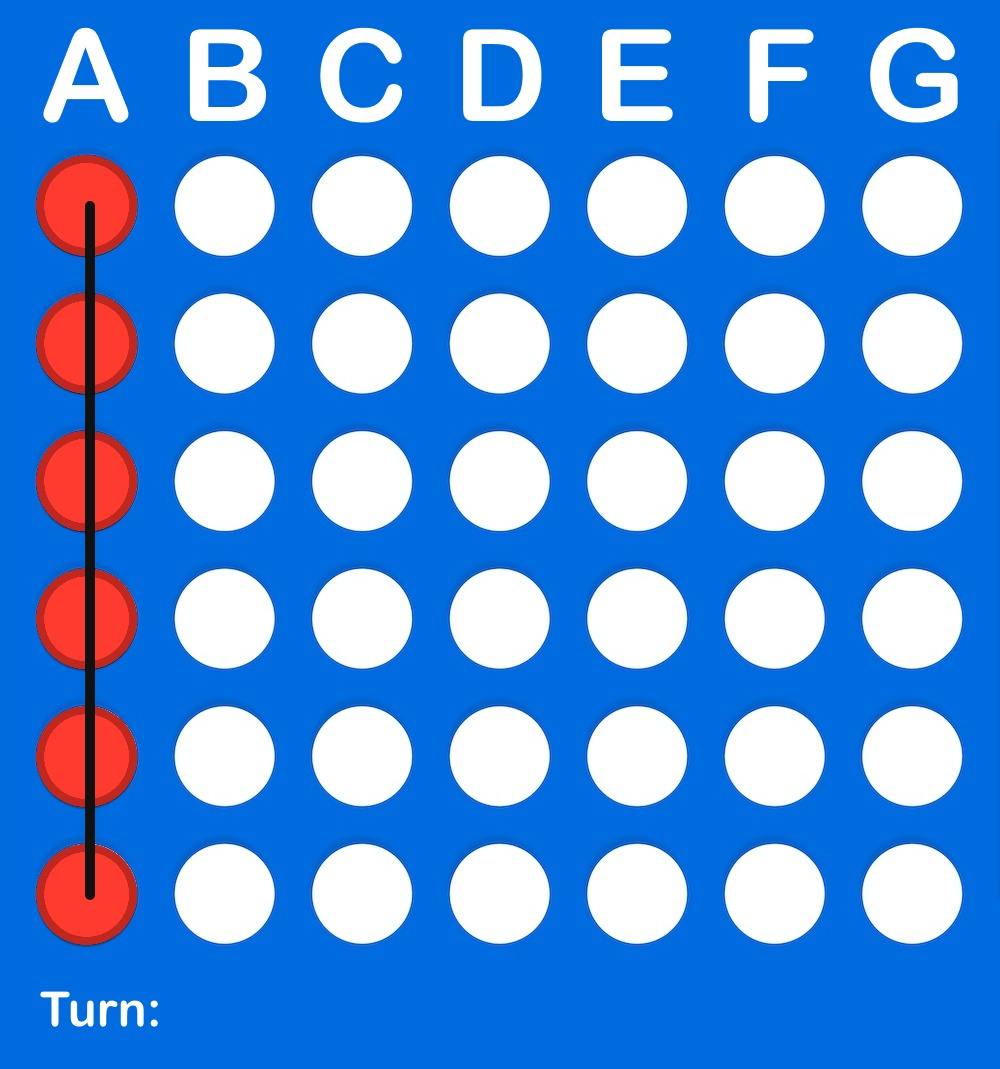
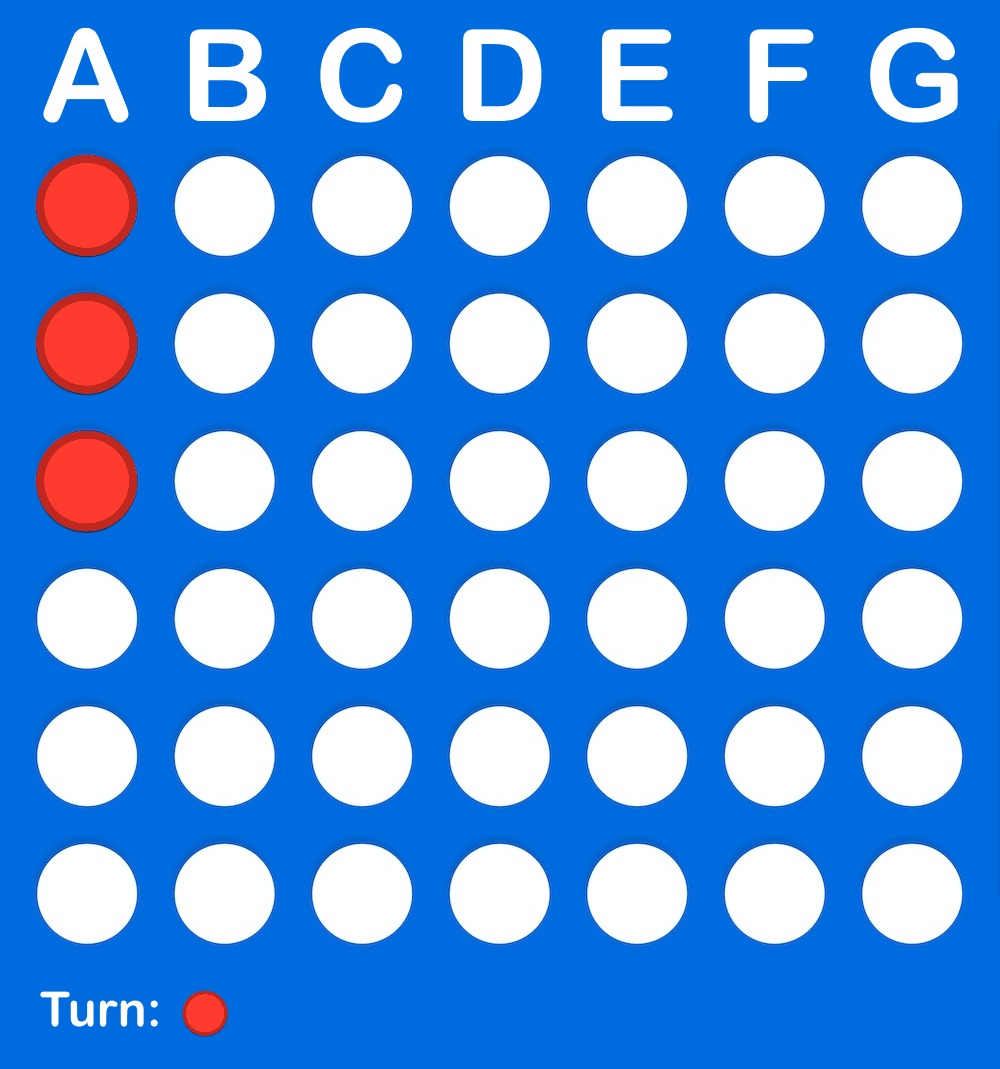
fixes

Changed region(s): [[0.031, 0.1852, 0.155, 0.8952], [0.186, 0.9261, 0.248, 0.9878]]

diff --git a/interactions/commands/connect4/connect4.ts b/interactions/commands/connect4/connect4.ts
@@ -1,0 +1,80 @@
+import type { Command } from "!/common/types";
+import { type Interaction, SlashCommandBuilder } from "discord.js";
+import { z } from "zod";
+import { connect4start } from "./connect4start";
+
+export const connect4 = {
+  data: new SlashCommandBuilder()
+    .setName("connect4")
+    .setDescription("Connect 4 mini game")
+    .setDMPermission(false)
+    .addSubcommand((subCommand) =>
+      subCommand
+        .setName("challenge")
+        .setDescription("Challenge a person")
+        .addUserOption((option) =>
+          option
+            .setName("user")
+            .setDescription("The user whose clan you want to see")
+            .setRequired(true),
+        )
+        .addStringOption((option) =>
+          option
+            .setName("your color")
+            .setDescription("The color YOU want to play as")
+            .setChoices(
+              { name: "red", value: "red" },
+              { name: "yellow", value: "yellow" },
+            ),
+        )
+        .addStringOption((option) =>
+          option
+            .setName("time")
+            .setDescription("The amount of time each player has to make a move")
+            .setChoices(
+              { name: "5 seconds", value: "5" },
+              { name: "30 seconds", value: "30" },
+              { name: "1 minute", value: "60" },
+              { name: "5 minutes", value: (60 * 5).toString() },
+              { name: "10 minutes", value: (60 * 10).toString() },
+              { name: "30 minutes", value: (60 * 30).toString() },
+            ),
+        ),
+    )
+    .addSubcommand((subCommand) =>
+      subCommand.setName("end").setDescription("End your current game"),
+    ),
+  async execute(interaction: Interaction) {
+    if (!interaction.isRepliable() || !interaction.isChatInputCommand()) {
+      return;
+    }
+
+    const guildId = interaction.guildId;
+
+    if (!guildId) {
+      return await interaction.reply("Clans are only available in servers.");
+    }
+
+    const subcommand = interaction.options.getSubcommand();
+
+    switch (subcommand) {
+      case "start":
+        return await interaction.reply(
+          await connect4start({
+            guildId,
+            channelId: interaction.channelId,
+            authorId: interaction.user.id,
+            mentionedId: z
+              .string()
+              .parse(interaction.options.getUser("user")?.id),
+          }),
+        );
+
+      default:
+        return await interaction.reply({
+          ephemeral: true,
+          content: "Unknown sub command",
+        });
+    }
+  },
+} satisfies Command;

diff --git a/interactions/commands/connect4/connect4start.ts b/interactions/commands/connect4/connect4start.ts
@@ -1,0 +1,54 @@
+import { prisma } from "!/prisma";
+import { sprintf } from "sprintf-js";
+
+type Options = {
+  guildId: string;
+  channelId: string;
+  authorId: string;
+  mentionedId: string;
+};
+
+export async function connect4start({
+  guildId,
+  channelId,
+  authorId,
+  mentionedId,
+}: Options) {
+  const authorCurrentGame = await prisma.connect4Game.findFirst({
+    where: {
+      guildId,
+      challenger: authorId,
+    },
+  });
+
+  if (authorCurrentGame) {
+    return {
+      ephemeral: true,
+      content: sprintf(
+        "You're already in a game with <@%s> in <#%s>. You can forfeit with `/connect4 end`",
+        authorCurrentGame.opponent,
+        authorCurrentGame.channelId,
+      ),
+    };
+  }
+
+  const mentionedCurrentGame = await prisma.connect4Game.findFirst({
+    where: {
+      guildId,
+      challenger: mentionedId,
+    },
+  });
+
+  if (mentionedCurrentGame) {
+    return {
+      ephemeral: true,
+      content: sprintf(
+        "<@%s> is already in a game with someone else in <#%s>",
+        mentionedId,
+        mentionedCurrentGame.channelId,
+      ),
+    };
+  }
+
+  return "";
+}

diff --git a/common/logic/c4/renderBoard.ts b/common/logic/c4/renderBoard.ts
@@ -16,15 +16,6 @@ export async function renderBoard(board: Board): Promise<void> {
 
   ctx.drawImage(boardImage, 0, 0, boardImage.width, boardImage.height);
 
-  switch (board.gameState) {
-    case GameState.RedTurn:
-      ctx.drawImage(redImage, 200, 200, 1000, 1000);
-      break;
-    case GameState.YellowTurn:
-      ctx.drawImage(yellowImage, 100, 100, 1000, 1000);
-      break;
-  }
-
   const lines: Slot[] = board.winningSlots?.length
     ? [board.winningSlots.at(0), board.winningSlots.at(-1)].filter(
         (v): v is Slot => v != null,
@@ -58,6 +49,19 @@ export async function renderBoard(board: Board): Promise<void> {
       ctx.lineTo(x, y);
     }
     ctx.stroke();
+  }
+
+  console.log(board.gameState)
+  const smallSize = 90;
+  const smallX = 160;
+  const smallY = boardImage.height - 100;
+  switch (board.gameState) {
+    case GameState.RedTurn:
+      ctx.drawImage(redImage, smallX, smallY, smallSize, smallSize);
+      break;
+    case GameState.YellowTurn:
+      ctx.drawImage(yellowImage, smallX, smallY, smallSize, smallSize);
+      break;
   }
 
   const jpegData = await canvas.encode("jpeg");

diff --git a/interactions/commands/economy/economyGamble.ts b/interactions/commands/economy/economyGamble.ts
@@ -48,14 +48,13 @@ const colors = [
   "🟧",
   "🟪",
   "🟩",
-  "🟠",
   "🟥",
+  "💙",
   "🟠",
   "🟣",
+  "🧡",
   "💚",
   "💜",
-  "🧡",
-  "💙",
   "💛",
   "🟨",
 ];
@@ -210,9 +209,9 @@ export const gamble = {
       2,
       2,
       3,
-      Math.random() > 0.75
+      Math.random() > 0.9
         ? randomNumber(6, 10)
-        : Math.random() > 0.98
+        : Math.random() > 0.99
           ? randomNumber(50, 100)
           : randomNumber(5, 8),
     ].map((result, i) => ({
@@ -366,6 +365,7 @@ export async function gambleInteractionButton(
   for (const [i, outcome] of outcomeLayout.entries()) {
     buttons.push(
       new ButtonBuilder()
+        .setEmoji(outcome.emoji)
         .setLabel(addCurrency()(formatNumber(outcome.result * bet)))
         .setStyle(index === i ? ButtonStyle.Primary : ButtonStyle.Secondary)
         .setCustomId(`noop${i}`)

diff --git a/common/logic/c4/c4.test.ts b/common/logic/c4/c4.test.ts
@@ -92,9 +92,6 @@ describe("connect 4 calculate winner", () => {
               { x: 0, y: 0, state: SlotState.Red },
               { x: 0, y: 1, state: SlotState.Red },
               { x: 0, y: 2, state: SlotState.Red },
-              { x: 0, y: 3, state: SlotState.Red },
-              { x: 0, y: 4, state: SlotState.Red },
-              { x: 0, y: 5, state: SlotState.Red },
             ],
           ],
         }),

diff --git a/interactions/commands/fun.ts b/interactions/commands/fun.ts
@@ -13,7 +13,7 @@ export const fun = {
       option
         .setName("options")
         .setDescription("hug kiss diss pat")
-        .addChoices(
+        .setChoices(
           { name: "Kiss", value: "kiss" },
           { name: "Hug", value: "hug" },
           { name: "Pat", value: "pat" },
